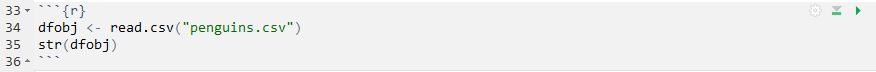
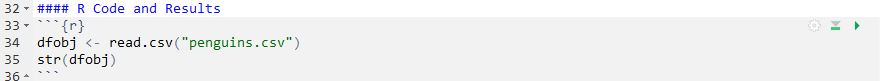
again

Changed region(s): [[0.0, 0.0278, 0.339, 1.0], [0.9247, 0.0556, 0.9863, 0.2222], [0.9247, 0.25, 0.9863, 0.3889]]

diff --git a/resources/FAQs/AssignmentNotebook.md b/resources/FAQs/AssignmentNotebook.md
@@ -18,17 +18,17 @@ For class assignments, start by downloading (right-click on) [this template](R A
 
 # Incluing Text in the Notebook
 ## Creating Sections
-Most assignments will have several questions, each of which is identified with a section heading. Your answers to the assignments should be shown under section headings with the same name as on the assignment. Section headings can be created in the RStudio document by preceding the secion heading name with two hashtags. For example, the line below would create a section heading called "Arctic Penguins".
+Most assignments will have several questions, each of which is identified with a section heading. Your answers to the assignments should be shown under section headings with the same name as on the assignment. Section headings can be created in the notebook by preceding the secion heading name with a hashtag. For example, the line below would create a section heading called "Arctic Penguins".
 
 ```
-## Arctic Penguins
+# Arctic Penguins
 ```
 
 ## Writing Text for Your Answers
 Sentences can be included by simply typing the text at the beginning of any line. A new paragraph is created by pressing return twice so that there is a blank line between paragraphs.
 
 ## Numbered Lists for Your Answers
-A numbered item list is created by starting a line with "1." followed by what you want after the number (e.g., your answer). If there is no blank lines between consecutive "1." items then RStudio will automatically update the numbering when the document is compiled. For example, typing this will produce the result further below ...
+A numbered item list is created by starting a line with "1." followed by what you want after the number (e.g., your answer). If there is no blank lines between consecutive "1." items then RStudio will automatically iterate the numbering when the document is compiled. For example, typing this will produce the result further below ...
 
 ![Notebook Numbered List](Figs/Notebook_NumberedList.JPG)
 
@@ -45,7 +45,7 @@ A univariate EDA for penguin body mass is
 # Including R Code and Results
 My preference is to include a subsection of R code and results **AFTER** you have answered the questions. You can create a subsection for this code by starting a line with "#### R Code and Results".
 
-All R code needs to be entered into a "code chunk." Code chunks begin with three backticks followed by curly brackets around "r" (i.e., "```{r}") and end with three backticks (i.e., "```"). Between the beginning and ending of the code chunk can be any viable R code. For example,
+All R code is entered into a "code chunk." Code chunks begin with three backticks followed by curly brackets around "r" (i.e., "\```{r}") and end with three backticks (i.e., "\```"). Between the beginning and ending of the code chunk can be any viable R code. For example,
 
 ![Notebook Code Chunk](Figs/Notebook_Code1.JPG)
 
@@ -68,3 +68,4 @@ Code chunks can have a variety of settings. The most important settings can be c
 
 
 # Tips and Tricks
+Ass
